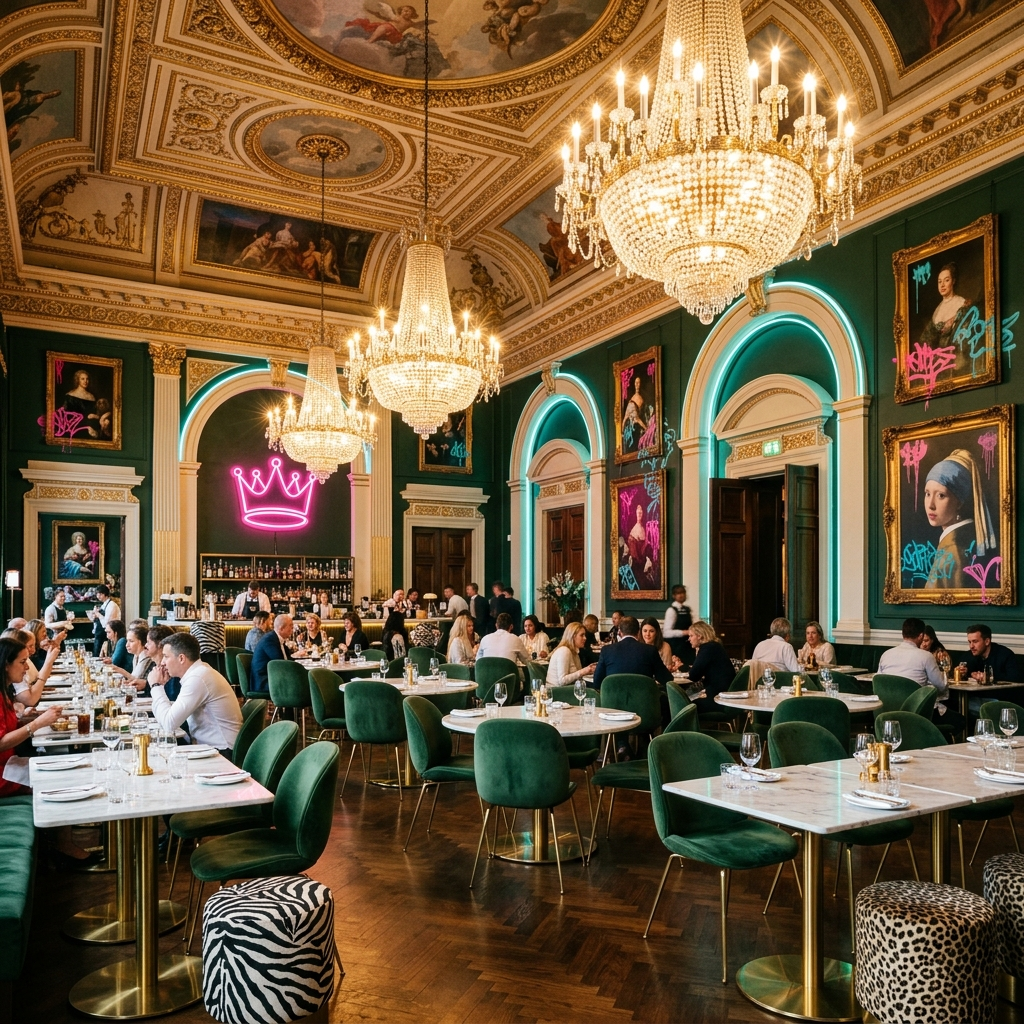
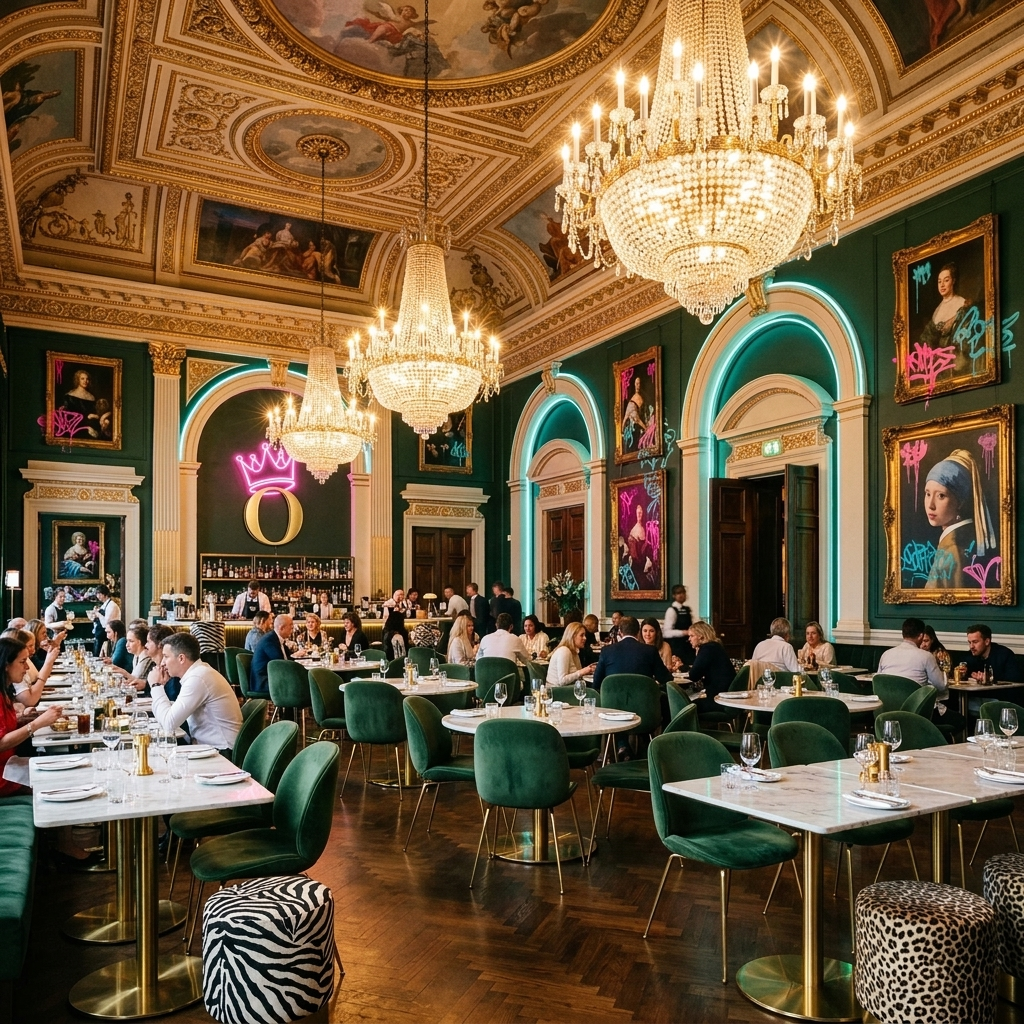
Correcci├│n de Traefik y SSL: 31/03/2026 16:37:09,14

diff --git a/src/components/Hero.jsx b/src/components/Hero.jsx
@@ -3,7 +3,7 @@ import { motion, AnimatePresence } from 'framer-motion';
 import './Hero.css';
 
 // Importing assets
-import loungeBg from '../assets/montagu_final_master.png';
+import loungeBg from '../assets/montagu_final_v2.png';
 import burgerImg from '../assets/uploaded_media_3_1774862966758.jpg';
 import meltImg from '../assets/uploaded_media_0_1774862966758.jpg';
 import hotdogImg from '../assets/uploaded_media_1_1774862966758.jpg'; // Placeholder for hotdog if not specific, but I'll use another burger variant
